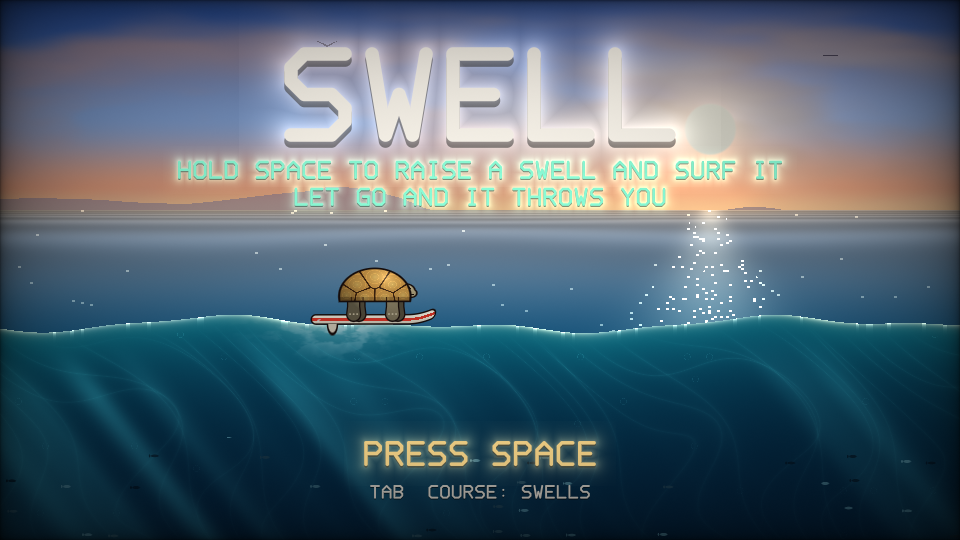
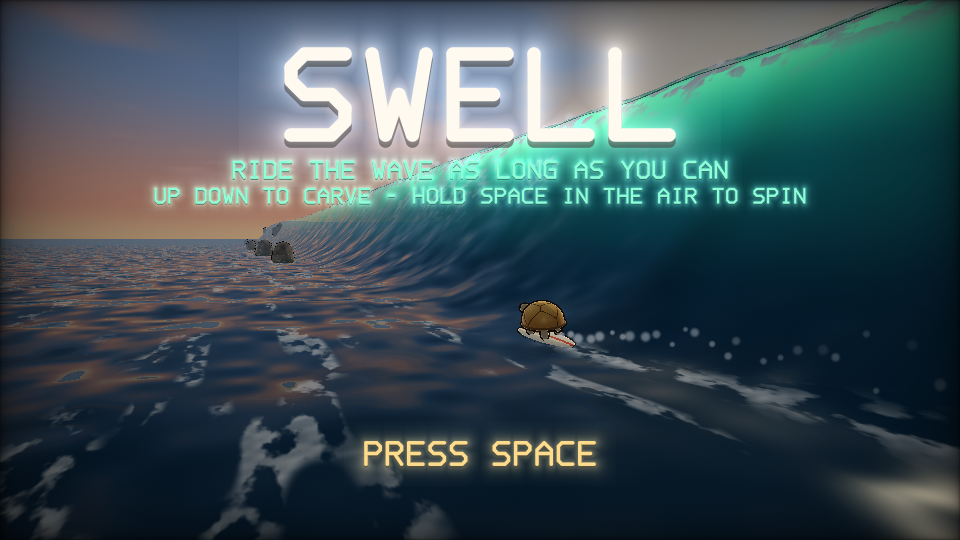
Swell v2: tuned airs, milestone replay and face agreement tests, cover and record
Gravity along the face is gentler than in the air, so a rider carries speed to the lip; an air
goes up and comes back to the face. The suite's ride is checked to launch, land a clean Shell
Spin, bail and start again, replaying from its tick log, and the GPU's face is checked against the
CPU's. The cover is v2's title; docs/process.md records the second council, the design and the
measurements.

diff --git a/compiler/tests/tests/suite/swell.rs b/compiler/tests/tests/suite/swell.rs
@@ -1,49 +1,49 @@
-//! Swell (games/swell): its own tests on the CPU; a scripted ride that replays from its tick log
-//! to the same hashes with any number of helpers, a log with one record changed failing at that
-//! tick; in Chrome (`--include-ignored`), the same ride recorded as a tick log, whose records and
+//! Swell (games/swell): its own tests on the CPU; a scripted ride that launches, lands a clean
+//! Shell Spin, bails, and starts again (the test checks it did), replaying from its tick log to
+//! the same hashes with any number of helpers, a log with one record changed failing at that
+//! tick; in Chrome (`--include-ignored`), the same ride recorded as a tick log whose records and
 //! hashes are the native host's tick for tick, whatever the frames; and on a hardware GPU, the
-//! sea the shader draws agreeing with the sea the sim rides, at a busy moment.
+//! face the shaders draw agreeing with the face the sim rides.
 
 use crate::{a_flipped_record_fails_at_its_tick, replays_with_any_helpers};
 use wrela_host::{CpuBuild, Host, Value};
-use wrela_tests::{f32s, one_vec4, repo_root};
+use wrela_tests::{f32s, one_f32, one_vec4, repo_root};
 
 const TICKS: u32 = 2400;
 
-/// The package's own tests (`wrela test games/swell`): the sea's, the course's, the contact
-/// rule's fixtures and the bots that finish both courses. About a second.
+/// The package's own tests (`wrela test games/swell`): the wave's, the course's, the contact
+/// rule's fixtures, a corridor bot on the hardest course, the grid's fit to the face, every
+/// hazard's warning time, and one presented state between snapshots.
 #[test]
 fn swells_own_tests_pass() {
     assert_eq!(super::tests_pass(&repo_root().join("games/swell")), 12);
 }
 
-/// A ride over `ticks` ticks (at 120 a second): Space to start, then swells held and let go at
-/// uneven times, a lean now and then.
-fn script(ticks: u32) -> String {
-    let mut events = vec![
-        r#"{"tick": 10, "type": "keydown", "key": "Space"}"#.to_string(),
-        r#"{"tick": 14, "type": "keyup", "key": "Space"}"#.to_string(),
+/// A ride at 120 ticks a second: Space to start; up the face and off the lip; a whole Shell
+/// Spin (Space held 63 ticks at 12 radians a second), the board turned down the face, landed
+/// clean; up and off again, the board still pointing up the face, a bail; R to start again.
+fn script() -> String {
+    let events = [
+        (10, "keydown", "Space"),
+        (14, "keyup", "Space"),
+        (60, "keydown", "ArrowUp"),
+        (166, "keyup", "ArrowUp"),
+        (168, "keydown", "Space"),
+        (231, "keyup", "Space"),
+        (232, "keydown", "ArrowDown"),
+        (272, "keyup", "ArrowDown"),
+        (330, "keydown", "ArrowUp"),
+        (600, "keyup", "ArrowUp"),
+        (700, "keydown", "KeyR"),
+        (704, "keyup", "KeyR"),
+        (760, "keydown", "ArrowUp"),
+        (790, "keyup", "ArrowUp"),
     ];
-    let mut t = 60;
-    let mut i = 0u32;
-    while t + 120 < ticks {
-        let hold = 20 + (i * 17) % 70;
-        events.push(format!(r#"{{"tick": {t}, "type": "keydown", "key": "Space"}}"#));
-        events.push(format!(r#"{{"tick": {}, "type": "keyup", "key": "Space"}}"#, t + hold));
-        if i % 3 == 2 {
-            events.push(format!(
-                r#"{{"tick": {}, "type": "keydown", "key": "ArrowRight"}}"#,
-                t + hold + 5
-            ));
-            events.push(format!(
-                r#"{{"tick": {}, "type": "keyup", "key": "ArrowRight"}}"#,
-                t + hold + 40
-            ));
-        }
-        t += hold + 60 + (i * 29) % 50;
-        i += 1;
-    }
-    format!("[\n  {}\n]\n", events.join(",\n  "))
+    let lines: Vec<String> = events
+        .iter()
+        .map(|(t, kind, key)| format!(r#"{{"tick": {t}, "type": "{kind}", "key": "{key}"}}"#))
+        .collect();
+    format!("[\n  {}\n]\n", lines.join(",\n  "))
 }
 
 /// The first tick at which `log` has a record.
@@ -52,10 +52,22 @@ fn first_record(log: &wrela_host::TickLog) -> usize {
 }
 
 #[test]
-fn a_ride_replays_and_a_changed_record_fails_at_its_tick() {
+fn a_ride_does_what_it_should_replays_and_a_changed_record_fails_at_its_tick() {
     let (dir, _) = wrela_tests::page("games/swell", "swell-replay");
     let built = CpuBuild::load(&dir).expect("load");
-    let script = wrela_host::parse_script(&script(TICKS)).expect("a script");
+    let script = wrela_host::parse_script(&script()).expect("a script");
+    // The ride did what it should: run in lockstep, frames and all, then asked.
+    let mut host = built.start_with(2).expect("start");
+    for i in 0..TICKS / 2 {
+        host.lockstep_frame(i, 60.0, 64, 64, &script).expect("a frame");
+    }
+    let m = one_vec4(&mut host, "milestones", &[]);
+    let runs = one_f32(&mut host, "runs_started", &[]);
+    assert!(m[0] >= 2.0, "launches: {m:?}");
+    assert!(m[1] >= 1.0 && m[2] >= 1.0, "a clean Shell Spin: {m:?}");
+    assert!(m[3] >= 1.0, "a bail: {m:?}");
+    assert!(runs >= 2.0, "started again: {runs}");
+    // Its tick log replays, and a changed record fails at its tick.
     let log = built.record_ticks(TICKS, &script, 2).expect("record");
     assert_eq!(log.ticks.len(), TICKS as usize);
     let read = replays_with_any_helpers(&built, &log);
@@ -71,7 +83,7 @@ fn a_ride_recorded_in_chrome_is_the_native_hosts_tick_for_tick() {
     let run = wrela_tests::ChromeRun {
         workers: 4,
         saturate: true,
-        script: Some(script(TICKS)),
+        script: Some(script()),
         ..wrela_tests::ChromeRun::new(TICKS / 2, 64, 64, 60.0)
     };
     let chrome = wrela_tests::run_in_chrome_with(&rel, run);
@@ -79,7 +91,7 @@ fn a_ride_recorded_in_chrome_is_the_native_hosts_tick_for_tick() {
     assert_eq!(log.ticks.len(), TICKS as usize);
     let built = CpuBuild::load(&dir).expect("load");
     assert_eq!(built.replay(&log, 2).expect("the native host replays Chrome's log"), TICKS);
-    let script = wrela_host::parse_script(&script(TICKS)).expect("a script");
+    let script = wrela_host::parse_script(&script()).expect("a script");
     let native = built.record_ticks(TICKS, &script, 1).expect("record");
     for (k, (a, b)) in log.ticks.iter().zip(&native.ticks).enumerate() {
         assert_eq!(a.records, b.records, "tick {k}'s records");
@@ -87,32 +99,37 @@ fn a_ride_recorded_in_chrome_is_the_native_hosts_tick_for_tick() {
     }
 }
 
-/// The sea the shader draws is the sea the sim rides: at 4096 points across three overlapping
-/// swells (rising, surging, settling) on the fixed course's hills, the GPU's height is within
-/// 0.5 mm of the CPU's (a hundredth of a pixel at 1080p), and its slope (the surface's facing)
-/// within 1e-3 of its size. One function, compiled to both; the GPU's arithmetic isn't the CPU's
-/// bits.
+/// The face the shaders draw is the face the sim rides: on a 64 × 64 grid across 14 of the line
+/// (the curl's slump among it) and the face from the flat sea to past the lip, the GPU's height
+/// is within 0.5 mm of the CPU's and its slope up the face within 1e-3 of its size. One
+/// function, compiled to both; the GPU's arithmetic isn't the CPU's bits.
 #[test]
 #[ignore = "needs a GPU"]
-fn the_sea_drawn_on_the_gpu_is_the_sea_the_sim_rides() {
-    let (dir, _) = wrela_tests::page("games/swell", "swell-sea");
+fn the_face_drawn_on_the_gpu_is_the_face_the_sim_rides() {
+    let (dir, _) = wrela_tests::page("games/swell", "swell-face");
     let mut host = Host::load(&dir).expect("load");
     host.frame(0.0, 64, 64).expect("a frame");
-    let count = 4096u32;
-    let (from, step) = (30.0f32, 20.0 / count as f32);
-    let args = [Value::F32(from), Value::F32(step), Value::I32(count as i32)];
-    host.call_export("probe_sea", &args).expect("probe_sea");
+    let (across, count) = (64u32, 64 * 64u32);
+    let (x, z, step) = (50.0f32, -2.0f32, 14.0 / 64.0);
+    let args = [
+        Value::F32(x),
+        Value::F32(z),
+        Value::F32(step),
+        Value::I32(across as i32),
+        Value::I32(count as i32),
+    ];
+    host.call_export("probe_face", &args).expect("probe_face");
     let out = *host.buffers().last().expect("the probe's buffer");
     let gpu = f32s(&host.read_buffer(out).expect("read"));
     let (mut height, mut slope) = (0.0f32, 0.0f32);
     for i in 0..count as usize {
         let g = &gpu[i * 4..i * 4 + 4];
-        let c = one_vec4(&mut host, "sea_on_cpu", &[Value::F32(g[0])]);
-        assert_eq!(c[0], g[0], "sample {i}'s x");
-        height = height.max((c[1] - g[1]).abs());
-        slope = slope.max((c[2] - g[2]).abs() / c[2].abs().max(1.0));
+        let c = one_vec4(&mut host, "face_on_cpu", &[Value::F32(g[0]), Value::F32(g[1])]);
+        assert_eq!((c[0], c[1]), (g[0], g[1]), "sample {i}'s place");
+        height = height.max((c[2] - g[2]).abs());
+        slope = slope.max((c[3] - g[3]).abs() / c[3].abs().max(1.0));
     }
-    println!("the sea on the GPU against the CPU: height {height:e}, slope {slope:e}");
+    println!("the face on the GPU against the CPU: height {height:e}, slope {slope:e}");
     assert!(height < 5e-4, "height differs by {height}");
     assert!(slope < 1e-3, "slope differs by {slope}");
 }

diff --git a/docs/process.md b/docs/process.md
@@ -1874,72 +1874,79 @@ a tab is reloaded. The browser host's environment now says whether the page load
 tab (the [Navigation Timing](https://developer.mozilla.org/en-US/docs/Web/API/PerformanceNavigationTiming/type)
 type), and the console's 30-minute rule and its stored time are gone.
 
-## Swell, a tortoise surfs a sea it raises, 2026-10-15
+## Swell, a tortoise on an endless breaking wave, 2026-10-15
 
 Ryan asked for a 2D game like Leapling that is genuinely outstanding and fun, and leans on what
 wrela does unusually. A council (Claude Opus 5.5 leading; GPT-6.1-Sol and GPT-6-Astra
-reviewing, two rounds) weighed four ideas. Both reviewers proposed the same one on their own:
-the player shapes the ground under a moving rider. Ryan named it Swell, asked for a tortoise
-on a surfboard (not a sea turtle, and nothing like Pixar's surfing sea turtle), water effects
-that are "really outstanding and sick", and a build on a worktree off `main`. Claude Code
-(Opus 5.5) designed and built it as a prototype for Ryan to play; it isn't in the console's
-catalogue.
+reviewing, two rounds) weighed four ideas; both reviewers proposed, on their own, the player
+shaping the ground under a moving rider. Ryan named it Swell, asked for a tortoise on a
+surfboard (not a sea turtle, and nothing like Pixar's surfing sea turtle), water effects that are
+"really outstanding and sick", and a build on a worktree off `main`. Claude Code (Opus 5.5)
+built a side-view first version: hold to raise a swell behind you and surf it, let go and it
+throws you. Ryan liked the tortoise but found it hard to see what was coming, and asked for 3D:
+surfing down the face of a giant wave, obstacles coming at you and getting harder, no end, a
+score from tricks and how long you ride. A second council (the same roster, two rounds) shaped
+the 3D plan; v1 stays in the branch's history. It isn't in the console's catalogue.
 
-**The verb.** The sea is one function of x and time (`games/swell/sea.wrela`). The sim reads
-its height, and the compiler's derived slope and rise, for the contact rule; the shader draws
-the same function. Hold to raise a swell behind the rider: it keeps pace, so the rider surfs
-its face, faster the longer it's held (up to 5 units a second above its speed when raised).
-Let go, and the swell surges forward until its crest has passed under the rider: passing fast,
-it throws the rider into the air. Three swells stand at most. A first version raised a hill
-ahead of the rider; the tests showed it gave no speed (the water's lift was taken back as it
-settled), and a rider who outran its swell was never thrown, so the swell became a wave that
-travels.
+**The ride.** One wave, in its own frame (`games/swell/wave.wrela`): x down the line, z up the
+face, its height one function the sim rides and the vertex shader lifts the sea's grid by. The
+reviewers pointed out that a height function can't curl over, so the lip and the whitewater are
+drawn from the same wave but never carry the rider. The sim (120 Hz, on the ticker's thread)
+carves by heading, launches once across the lip line (measured relative to it), spins the
+tortoise in its shell while the button is held (the Shell Spin), and lands clean (out of the
+shell, near a whole turn, the board pointing down) or bails. The curl chases the rider; the curl,
+a closeout's lip, a rock or a log ends the run. Gravity along the face is gentler than in the air
+(an arcade's), so a rider can carry speed up to the lip.
 
-**The control.** The council asked for the same course without the verb, to test whether the
-verb carries the fun. Flat water and fixed ramps can't give speed, so they'd lose by
-construction; the control has rolling hills and a dive instead (heavier on the water while
-held), a strong design of its own. Test bots finish both courses; the hills' heights and widths
-and the rocks' places came from a search over layouts (a Python script outside the repo, about
-200 runs of the bot tests) for the fewest wipeouts on both.
+**Fairness.** The course is made a segment at a time from the run's seed (`course.wrela`),
+nothing stored: a safe corridor first, its slope and bend bounded so steering by heading can
+follow it at any speed up to the top; rocks and logs only outside it; closeouts only where the
+corridor runs low, so the lower face stays open. Difficulty rises over the first 2,400 and stops
+there, where a test bot survives; after that the course keeps varying, no harder.
 
-**The look.** One fragment shader: a late-afternoon sky with clouds and a low sun, the open sea
-to the horizon with the sun's path glittering, and the near sea with light through its swells,
-depth that drinks the reds first, caustics, shafts of light, bubbles, foam on surging crests and
-in the board's track, and spray the frames throw. The tortoise is an original design: an old
-desert tortoise with a tall amber dome in plates with growth rings, stout legs, a wrinkled neck
-that comes further out the faster it goes, and a heavy-lidded eye, on a longboard. Wiped out, it
-tumbles in its shell. Sound is synthesized as it plays: the sea, the board's rush, a swell
-rising, splashes and a marimba's notes. Nothing comes from a file or a generative model.
+**The look.** The sea is a grid (160 × 192 cells, finest at the eye and on the upper face) lifted
+by the height function, shaded per fragment: deep water, the sky in it, light coming green
+through the thin crest when the eye looks toward the low sun behind the wave, foam on the lip, in
+the board's track, round rocks and over closeouts, and spray. The lip is a ribbon throwing over
+the face near the curl and over closeouts ahead; the whitewater a churning tube behind the curl.
+Rocks, logs and the tortoise are lit ellipsoids with ink outlines: the tortoise an old desert
+tortoise, a tall amber dome in plates, stout legs, a neck that comes out further the faster it
+goes. One state between two snapshots draws everything (a reviewer found that v1 drew the water
+at another time than the rider when the snapshots weren't adjacent). Sound is synthesized: the
+sea, the board's rush, the wave's roar as loud as the curl is close, splashes, chimes. Nothing
+comes from a file or a generative model.
 
 **Design references** (named, not traced; no art, code or level taken):
 
 | Reference | What it teaches |
 |---|---|
-| *Tiny Wings* (Andreas Illiger, 2011) | Momentum over rolling hills: dive down, let go on the way up, a clean landing on a far face. The fixed course's control. |
+| *Tiny Wings* (Andreas Illiger, 2011) | Momentum over rolling hills (v1's control course). |
 | *Wavespark* (Nathan McCoy, about 2010), which *Tiny Wings* is said to follow | One-button gravity over terrain. |
-| *Kirby: Canvas Curse* (HAL Laboratory, 2005) | The player makes the path a rider who can't jump rides on, in a limited supply that fades: Swell's three swells, which settle. |
-| *Raise It!* (Ben Fulkerson-Bird, a prototype on itch.io) | Raising the ground under a rider who can't jump, quickly to launch: the nearest prior art for the verb. |
-| *Waveform* (Eden Industries, 2012) | Shaping the wave a rider follows. |
+| *Kirby: Canvas Curse* (HAL Laboratory, 2005) | A path the player makes for a rider who can't jump (v1). |
+| *Raise It!* (Ben Fulkerson-Bird, a prototype on itch.io) | Raising the ground under a rider to launch it (v1). |
+| *Waveform* (Eden Industries, 2012) | Shaping the wave a rider follows (v1). |
 
 **Engine.** Leapling's stroke type moved to `engine::letters` with its shader function and
 `clock_text`, so both games share one copy; Leapling's pixels are unchanged.
 
-**Checks.** Regressions cover the contact rule (water rising carries a still rider; surfing a
-held swell speeds it up and letting go throws it higher than the tallest rock; the rider never
-sinks below the water over 3,000 seeded ticks; a full set of swells refuses a press and keeps
-every swell; a press and its release in one tick still raise one; a clean landing keeps speed
-and one into a face loses it; rocks wipe out and the rider starts again before them; the fixed
-course's dive), and bots finishing both courses. A scripted ride of 2,400 ticks replays from
-its tick log with 1, 2 and 8 helpers, and fails at the tick of a changed record; the same ride
-in Chrome (lockstep, frames at other ticks) has the native host's records and hashes, tick for
-tick. On the M4's GPU, the sea the shader draws is within 0.06 mm of the sim's in height and
-5e-5 in slope over 4,096 points of a busy sea. The audio rendered offline in Chrome is finite
-and peaks at 0.36. `tools/wrela profile` on this MacBook Air M4 (native host, Metal, 1080p, the
-same 300-frame ride, 60 warmup): Swell's frame takes 3.8 ms of GPU time at the median and 7.2 ms
-at the 95th percentile; Leapling's run, 1.8 and 4.3. Chrome's frame rate and the Linux GPUs
-weren't measured. Not checked: whether it's fun. That's Ryan's playtest, both courses, with
-practice and the order reversed, and the council asked for players who haven't seen it before
-calling it outstanding.
+**Checks.** Package tests: the face rises and slumps behind the curl; the corridor's bounds hold
+and no hazard reaches it; carving up slows and down speeds; crossing the lip launches once and
+riding along it never does; a whole Shell Spin lands clean, half of one bails, landing in the
+shell bails; the curl catches a rider who falls behind; the rider never sinks into the face over
+3,000 seeded ticks; a corridor bot rides the hardest course at the slowest and top speeds on
+three seeds without harm; the grid's triangles stay within 0.9 cm of the face near the rider
+(1.3 cm on the crest, flown over); every one of 217 rocks and logs on three courses is in the
+camera's view, unhidden by the wave, at least 5.7 s before the last moment a swerve still misses
+it at the top speed (the tortoise's own body and spray hiding it aren't counted); one presented
+state between snapshots, adjacent or not. Suite: a scripted ride that launches, lands a clean
+Shell Spin, bails and starts again (checked), replaying from its tick log with 1, 2 and 8
+helpers, a changed record failing at its tick; the same ride in Chrome, the native host's tick for
+tick; on the M4's GPU the face within 2.4e-6 in height and 3e-6 in slope of the CPU's. On this
+MacBook Air M4 at 1080p: `tools/wrela profile` (native, Metal), 4.6 ms of GPU time a frame at the
+median and 6.1 ms at the 95th percentile; Chrome (frames back to back), 4.5 and 6.0; the sim's
+tick 0.005 ms at the median; cold, all eight pipelines made in 242 ms and the first frame 196 ms
+after the page opened, about 620 KB fetched from this machine. Chrome's paced frame rate and the
+Linux GPUs weren't measured. Not checked: whether it's fun; that's Ryan's playtest.
 
 ## Keeping this record
 
